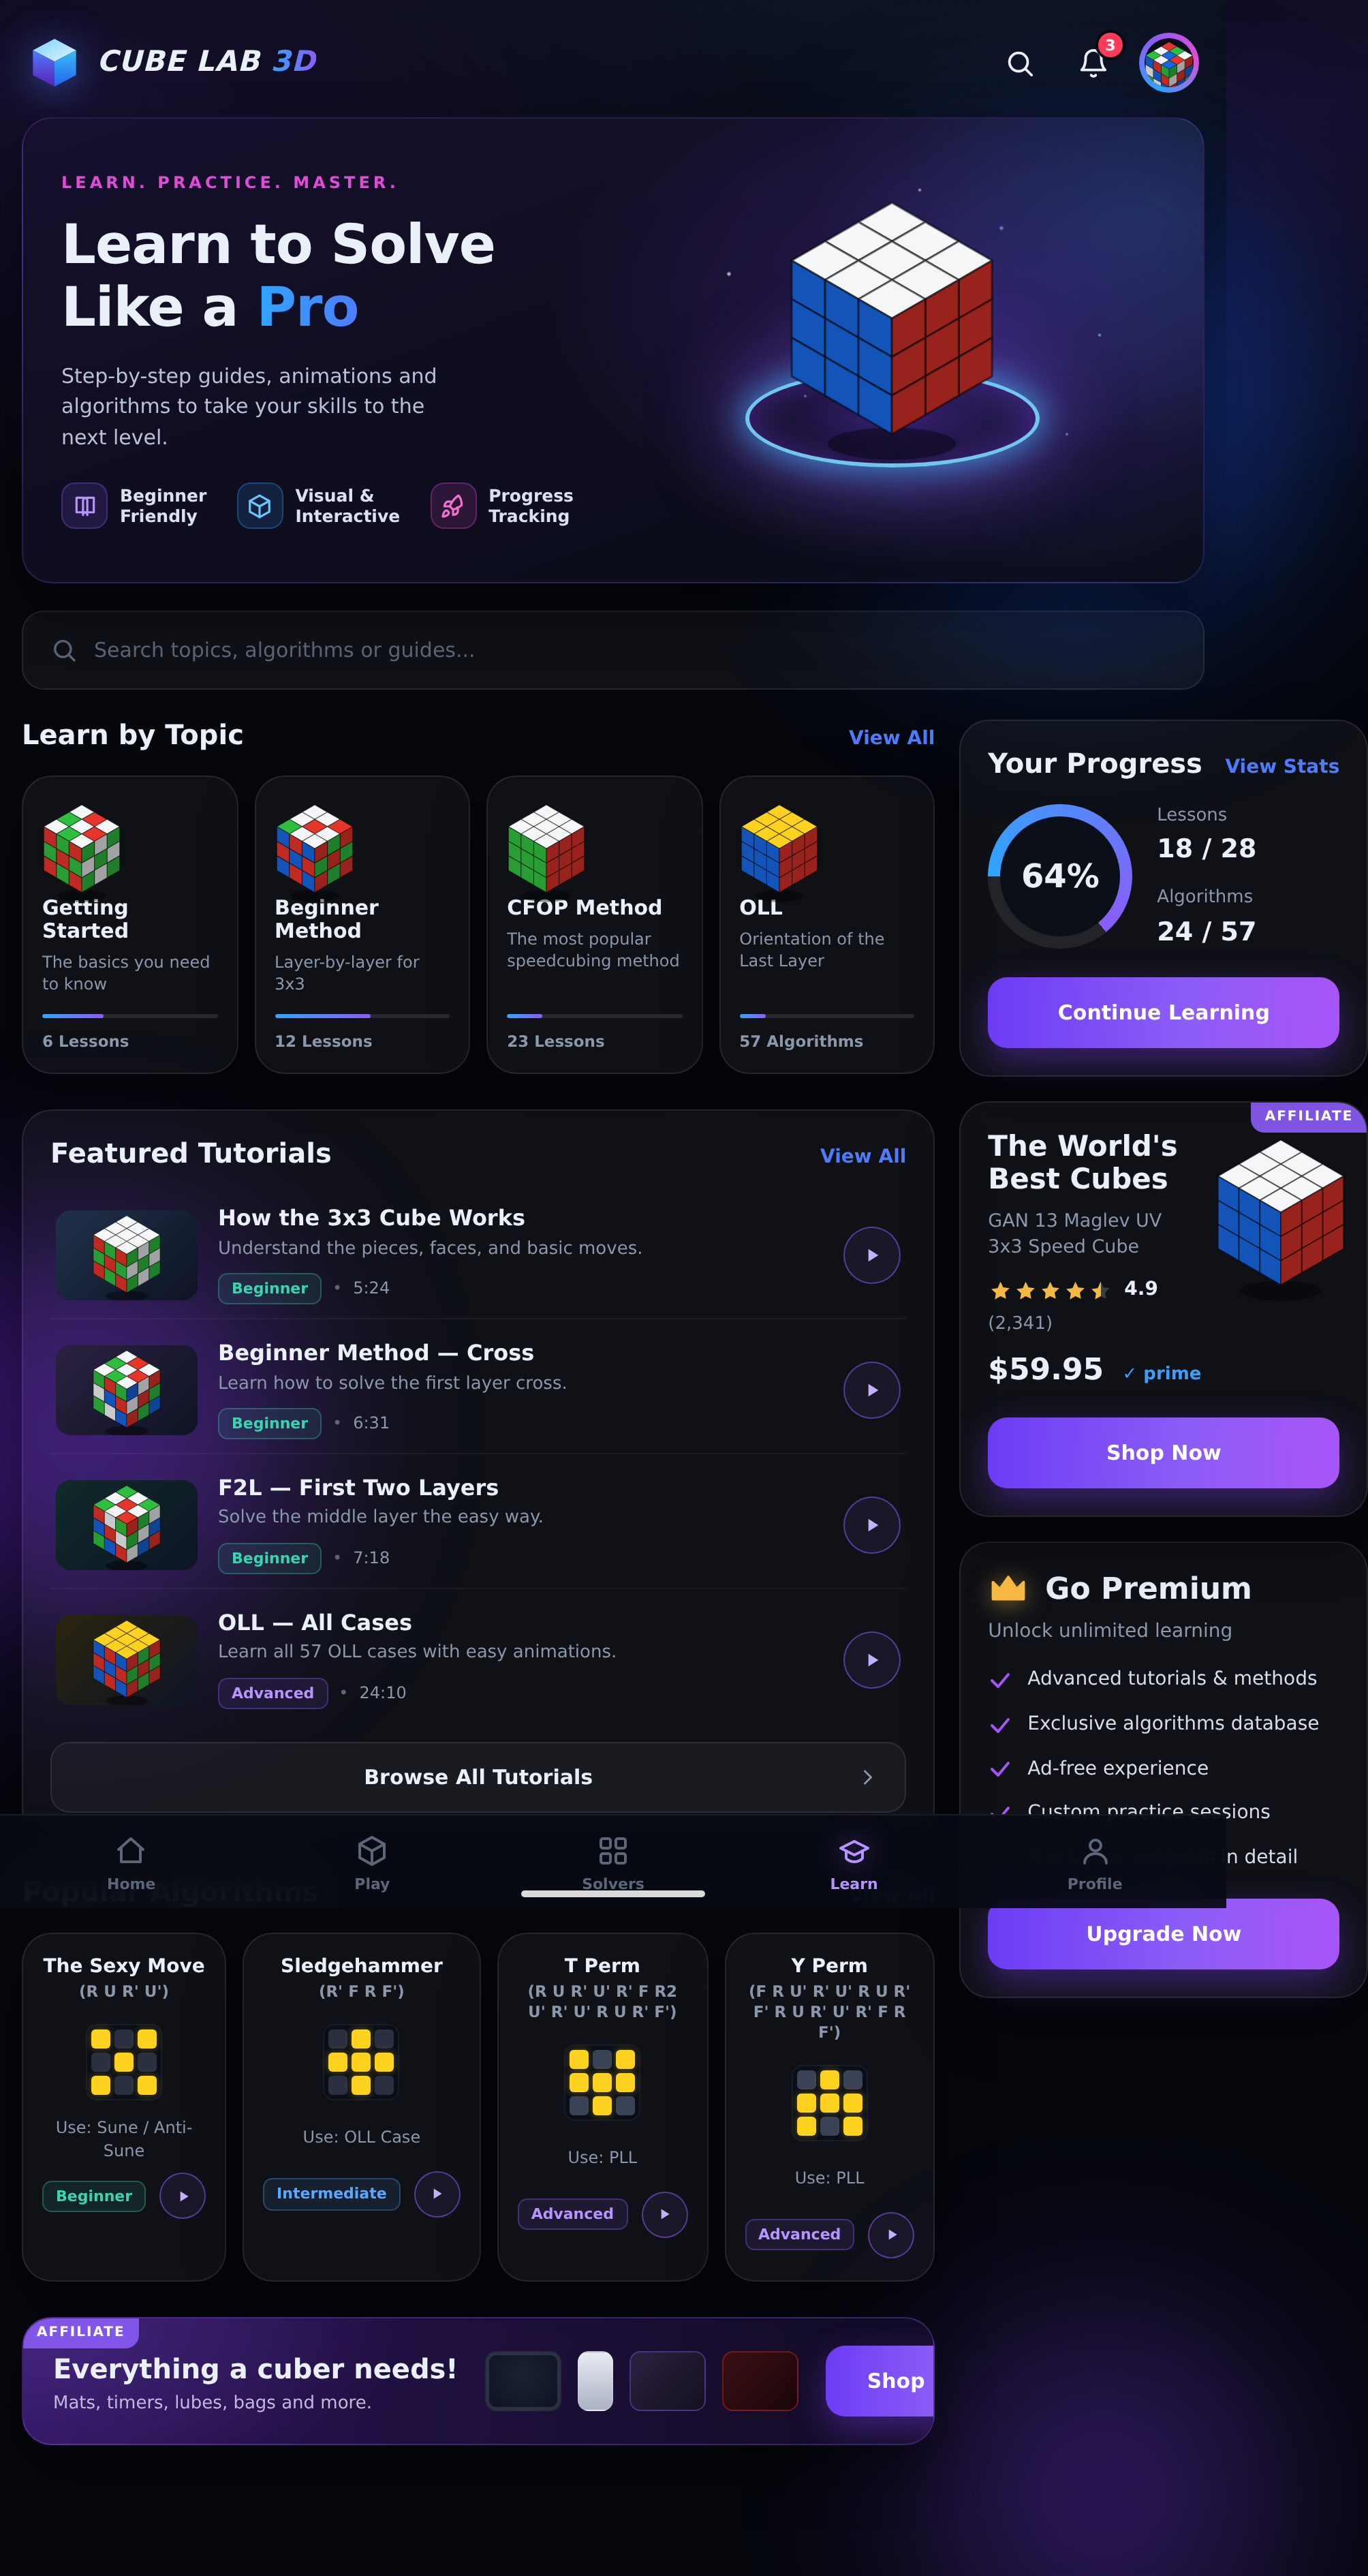
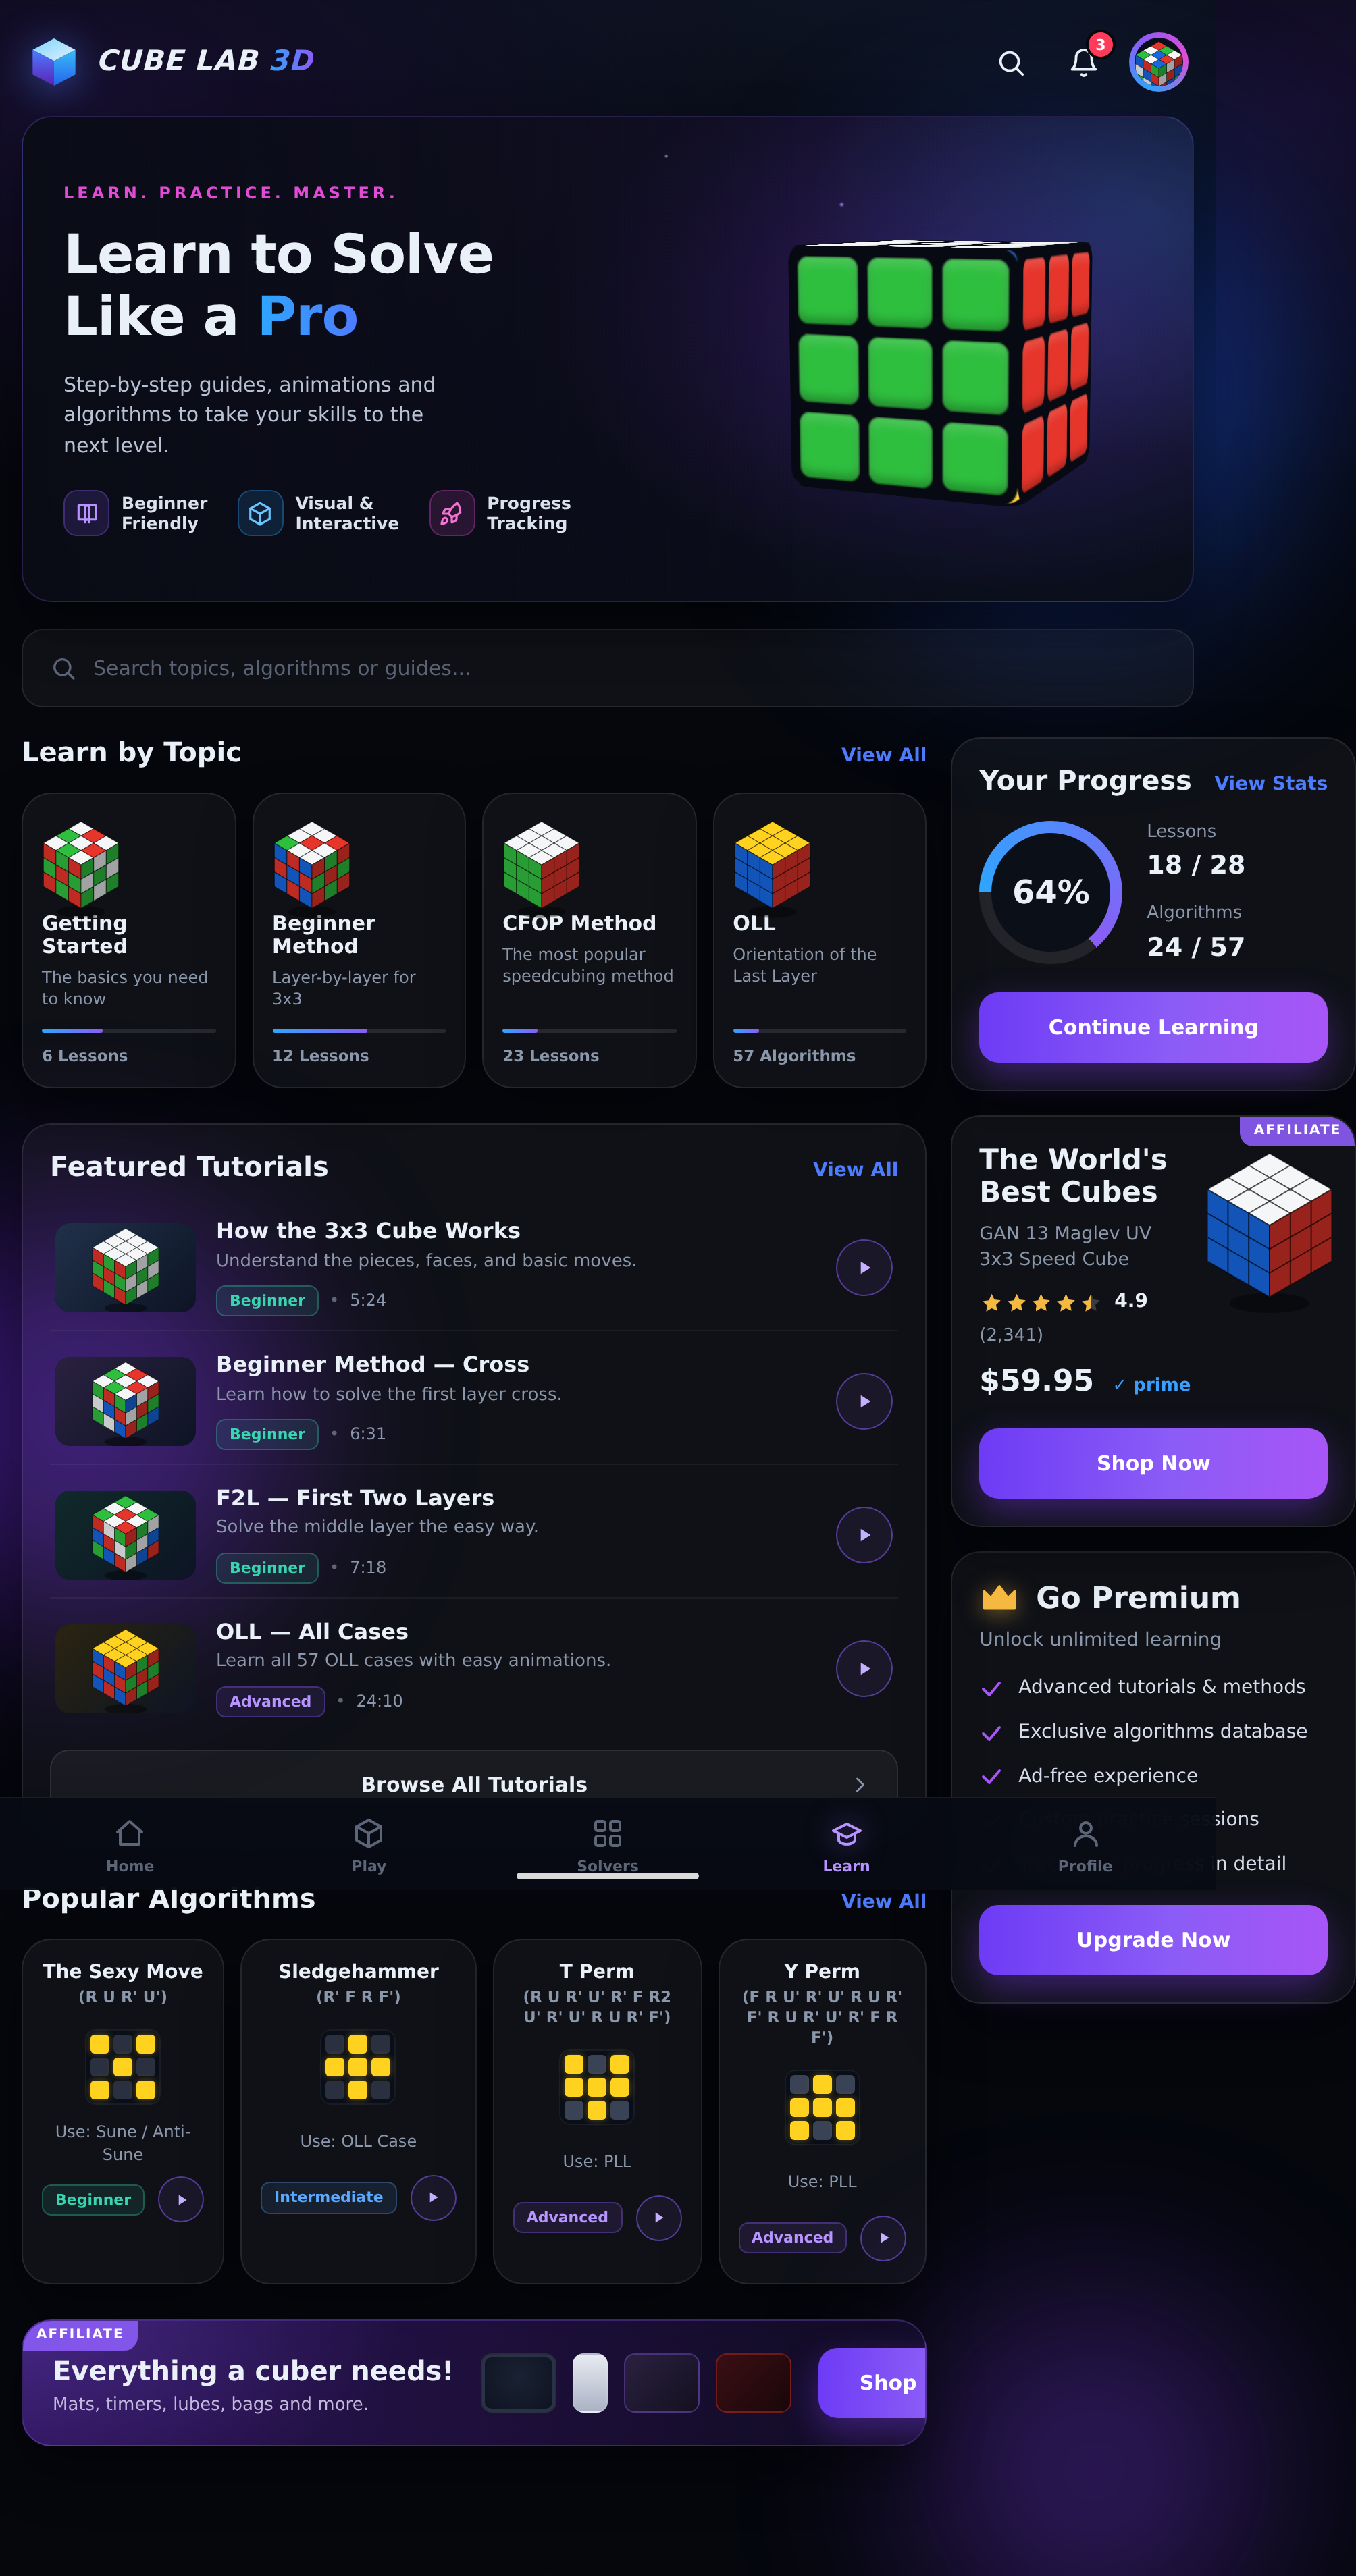
Replace hero cube with spinning 3D cube behind the headline
Swaps the static isometric hero cube for a pure-CSS 3D Rubik's cube that
tumbles continuously (spin3d keyframes on a preserve-3d stage, six colored
faces). It sits behind the hero copy with a left-to-right scrim keeping the
headline readable, and scales/dims into the corner on mobile. Honors
prefers-reduced-motion with a static angled pose. Refreshes preview.png.

Claude-Session: https://claude.ai/code/session_01L8zL9Kydsrdxk3rGZvf91A

diff --git a/design/learn/styles.css b/design/learn/styles.css
@@ -72,14 +72,18 @@ h1,h2,h3{line-height:1.15}
 .pad{padding:20px}
 
 /* ================= HERO ================= */
-.hero{position:relative;overflow:hidden;display:grid;
-  grid-template-columns:1fr 1fr;gap:10px;padding:30px 28px;min-height:340px;
+.hero{position:relative;overflow:hidden;padding:38px 30px;min-height:360px;
+  display:flex;align-items:center;
   background:
     radial-gradient(520px 320px at 82% 42%,rgba(124,58,237,.28),transparent 62%),
     radial-gradient(420px 300px at 96% 20%,rgba(46,166,255,.20),transparent 60%),
     linear-gradient(160deg,rgba(23,16,46,.9),rgba(10,14,23,.9));
   border-color:rgba(139,92,246,.22)}
-.hero-copy{position:relative;z-index:2;align-self:center}
+/* readability scrim: darkens the text side, fades to reveal the cube on the right */
+.hero::after{content:"";position:absolute;inset:0;z-index:1;pointer-events:none;
+  background:linear-gradient(90deg,rgba(9,12,20,.9) 0%,rgba(9,12,20,.55) 40%,
+    rgba(9,12,20,0) 66%)}
+.hero-copy{position:relative;z-index:2;max-width:60%}
 .eyebrow{font-size:12px;font-weight:800;letter-spacing:2.5px;color:var(--magenta);
   margin-bottom:14px}
 .hero-title{font-size:40px;font-weight:800;letter-spacing:-.5px}
@@ -95,9 +99,8 @@ h1,h2,h3{line-height:1.15}
 .hf-ico.blue{background:rgba(46,166,255,.14);color:#6cc5ff;border:1px solid rgba(46,166,255,.3)}
 .hf-ico.pink{background:rgba(226,75,214,.14);color:var(--pink);border:1px solid rgba(226,75,214,.3)}
 
-/* hero cube + platform */
-.hero-visual{position:relative;display:grid;place-items:center;min-height:280px}
-.stars{position:absolute;inset:0;
+/* starfield behind everything in the hero */
+.stars{position:absolute;inset:0;z-index:0;
   background-image:
     radial-gradient(2px 2px at 20% 30%,rgba(255,255,255,.9),transparent),
     radial-gradient(2px 2px at 70% 18%,rgba(180,140,255,.9),transparent),
@@ -106,22 +109,36 @@ h1,h2,h3{line-height:1.15}
     radial-gradient(1.4px 1.4px at 34% 62%,rgba(200,170,255,.7),transparent),
     radial-gradient(1.4px 1.4px at 82% 72%,rgba(255,255,255,.6),transparent);
   pointer-events:none}
-.cube-platform{position:relative;width:230px;height:252px;
-  display:flex;align-items:flex-start;justify-content:center;padding-top:6px;z-index:2}
-.cube-platform .iso{width:auto;height:198px}
-/* neon platform ring + glow, painted BEHIND the cube so only the front rim shows */
-.cube-platform::before{content:"";position:absolute;bottom:40px;left:50%;
-  transform:translateX(-50%);width:210px;height:66px;border-radius:50%;
-  pointer-events:none;z-index:-1;border:3px solid rgba(120,214,255,.92);
-  background:radial-gradient(closest-side,rgba(124,58,237,.3),transparent 72%);
-  box-shadow:0 0 22px 3px rgba(56,189,248,.6),
-             0 0 56px 14px rgba(139,92,246,.5),
-             inset 0 0 26px rgba(124,58,237,.4)}
-/* faint contact shadow under the platform */
-.cube-platform::after{content:"";position:absolute;bottom:26px;left:50%;
-  transform:translateX(-50%);width:150px;height:26px;border-radius:50%;
-  pointer-events:none;z-index:-2;filter:blur(6px);
-  background:radial-gradient(closest-side,rgba(0,0,0,.6),transparent 75%)}
+
+/* ---- spinning 3D cube behind the headline ---- */
+.hero-cube{position:absolute;z-index:0;top:50%;right:7%;transform:translateY(-50%);
+  width:240px;height:240px;display:grid;place-items:center;
+  perspective:900px;pointer-events:none}
+.hero-cube::before{content:"";position:absolute;width:230px;height:230px;border-radius:50%;
+  background:radial-gradient(closest-side,rgba(124,58,237,.4),rgba(56,189,248,.14),transparent 72%);
+  filter:blur(14px)}
+.cube3d{position:relative;width:170px;height:170px;transform-style:preserve-3d;
+  animation:spin3d 20s linear infinite}
+.cube-face{position:absolute;top:0;left:0;width:170px;height:170px;box-sizing:border-box;
+  display:grid;grid-template-columns:repeat(3,1fr);grid-template-rows:repeat(3,1fr);
+  gap:7px;padding:7px;background:#070a12;border-radius:14px}
+.cube-face i{border-radius:8px;
+  box-shadow:inset 0 0 0 1px rgba(0,0,0,.28),inset 0 -4px 7px rgba(0,0,0,.28),
+             inset 0 4px 8px rgba(255,255,255,.18)}
+.cf-front {transform:rotateY(0deg)   translateZ(85px)} .cf-front  i{background:#e6352b}
+.cf-back  {transform:rotateY(180deg) translateZ(85px)} .cf-back   i{background:#ff7a1a}
+.cf-right {transform:rotateY(90deg)  translateZ(85px)} .cf-right  i{background:#1667e0}
+.cf-left  {transform:rotateY(-90deg) translateZ(85px)} .cf-left   i{background:#2fbf3f}
+.cf-top   {transform:rotateX(90deg)  translateZ(85px)} .cf-top    i{background:#f4f6f8}
+.cf-bottom{transform:rotateX(-90deg) translateZ(85px)} .cf-bottom i{background:#ffd21f}
+@keyframes spin3d{
+  0%  {transform:rotateX(-22deg) rotateY(0deg)}
+  50% {transform:rotateX(18deg)  rotateY(180deg)}
+  100%{transform:rotateX(-22deg) rotateY(360deg)}
+}
+@media (prefers-reduced-motion:reduce){
+  .cube3d{animation:none;transform:rotateX(-24deg) rotateY(-32deg)}
+}
 
 /* ================= SEARCH ================= */
 .searchbar{display:flex;align-items:center;gap:12px;margin:20px 0 22px;
@@ -310,8 +327,12 @@ h1,h2,h3{line-height:1.15}
   .col-side>section{flex:1 1 260px}
 }
 @media (max-width:680px){
-  .hero{grid-template-columns:1fr;min-height:0}
-  .hero-visual{min-height:230px}
+  .hero{min-height:300px;padding:28px 24px}
+  .hero-copy{max-width:100%}
+  .hero::after{background:linear-gradient(180deg,rgba(9,12,20,.35) 0%,
+    rgba(9,12,20,.72) 55%,rgba(9,12,20,.9) 100%)}
+  .hero-cube{top:auto;bottom:-26px;right:-24px;transform:scale(.82);
+    width:190px;height:190px;opacity:.62}
   .hero-title{font-size:34px}
   .topic-grid,.algo-grid{grid-template-columns:repeat(2,1fr)}
   .affiliate-strip{flex-wrap:wrap}

diff --git a/design/learn/index.html b/design/learn/index.html
@@ -52,6 +52,18 @@
 
     <!-- ================= HERO ================= -->
     <section class="hero card">
+      <div class="stars" aria-hidden="true"></div>
+      <!-- spinning 3D cube behind the headline -->
+      <div class="hero-cube" aria-hidden="true">
+        <div class="cube3d">
+          <div class="cube-face cf-front"><i></i><i></i><i></i><i></i><i></i><i></i><i></i><i></i><i></i></div>
+          <div class="cube-face cf-back"><i></i><i></i><i></i><i></i><i></i><i></i><i></i><i></i><i></i></div>
+          <div class="cube-face cf-right"><i></i><i></i><i></i><i></i><i></i><i></i><i></i><i></i><i></i></div>
+          <div class="cube-face cf-left"><i></i><i></i><i></i><i></i><i></i><i></i><i></i><i></i><i></i></div>
+          <div class="cube-face cf-top"><i></i><i></i><i></i><i></i><i></i><i></i><i></i><i></i><i></i></div>
+          <div class="cube-face cf-bottom"><i></i><i></i><i></i><i></i><i></i><i></i><i></i><i></i><i></i></div>
+        </div>
+      </div>
       <div class="hero-copy">
         <p class="eyebrow">LEARN. PRACTICE. MASTER.</p>
         <h1 class="hero-title">Learn to Solve<br>Like a <span class="grad">Pro</span></h1>
@@ -70,11 +82,6 @@
             <span>Progress<br>Tracking</span>
           </li>
         </ul>
-      </div>
-
-      <div class="hero-visual">
-        <div class="stars" aria-hidden="true"></div>
-        <div class="cube-platform" data-cube="hero"></div>
       </div>
     </section>
 

diff --git a/design/learn/README.md b/design/learn/README.md
@@ -10,9 +10,13 @@ port — so it can later be moved into the Next.js app (`app/learn/`) 1:1.
   tutorials, popular algorithms, progress/affiliate/premium sidebar, bottom nav).
 - `styles.css` — all styling. Brand tokens mirror `app/globals.css` so the port
   reads from the same palette.
-- `script.js` — generates every cube visual as inline SVG (isometric topic/hero
+- `script.js` — generates every cube visual as inline SVG (isometric topic
   cubes, tutorial thumbnails, product cube) plus the flat OLL/PLL face grids, so
   the page ships with **zero image assets**.
+
+The hero cube is a pure-CSS 3D Rubik's cube (six `.cube-face` panels on a
+`preserve-3d` stage) that tumbles continuously behind the headline via the
+`spin3d` keyframes; a left-to-right scrim keeps the copy readable over it.
 - `preview.png` — rendered reference screenshot.
 
 ## Preview locally